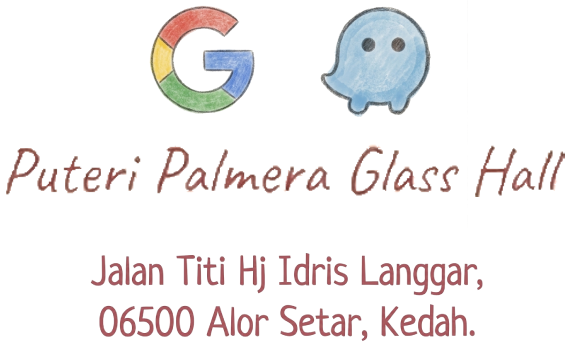
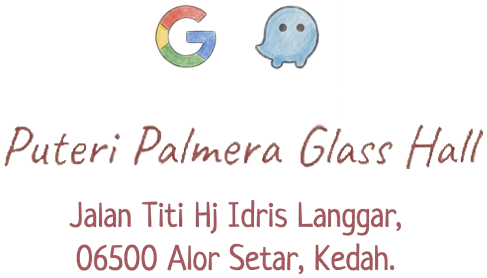
update

diff --git a/app/page.tsx b/app/page.tsx
@@ -287,6 +287,22 @@ const addToCalendar = (type: 'google' | 'apple') => {
     document.body.removeChild(link);
   }
 };
+const navRef = useRef<HTMLDivElement>(null);
+
+useEffect(() => {
+  if (navRef.current) {
+    // Cari button yang aktif berdasarkan data-tab attribute
+    const activeElement = navRef.current.querySelector(`[data-tab="${activeTab}"]`);
+    
+    if (activeElement) {
+      activeElement.scrollIntoView({
+        behavior: 'smooth', // Animasi smooth
+        block: 'nearest',   // Tak perlu gerak vertical
+        inline: 'center',   // Tengah-tengahkan button dalam scrollable area
+      });
+    }
+  }
+}, [activeTab]); // Effect ni akan jalan setiap kali activeTab berubah
     return (
     <div className="min-h-screen bg-[#FCFAF7] text-[#4A443F] font-sans overflow-x-hidden selection:bg-[#E8DED1]">
       
@@ -428,7 +444,7 @@ const addToCalendar = (type: 'google' | 'apple') => {
   <img 
     src="/image/9.png" 
     alt="Main Invite"
-    className="w-full h-auto object-contain scale-80" 
+    className="w-full h-auto object-contain scale-75" 
   />
 </motion.div>
 
@@ -441,7 +457,7 @@ const addToCalendar = (type: 'google' | 'apple') => {
   <img 
     src="/image/10.png" 
     alt="Main Invite"
-    className="w-full h-auto object-contain scale-60" 
+    className="w-full h-auto object-contain scale-55" 
   />
 </motion.div>
 <motion.img 
@@ -496,7 +512,7 @@ const addToCalendar = (type: 'google' | 'apple') => {
   initial={{ scale: 0.8, opacity: 0 }}
   animate={{ scale: 1, opacity: 1 }}
   transition={{ duration: 1 }}
-  className="relative z-10 w-full mt-[-50px]" // <--- TUKAR NILAI NI (Lagi besar nilai, lagi tinggi dia naik)
+  className="relative z-10 w-full mt-[-50px] ml-5" // <--- TUKAR NILAI NI (Lagi besar nilai, lagi tinggi dia naik)
 >
   <img 
     src="/image/54.png" 
@@ -518,17 +534,17 @@ const addToCalendar = (type: 'google' | 'apple') => {
          <motion.img 
   animate={{ scale: [1, 1.2, 1] }} 
   transition={{ repeat: Infinity, duration: 3 }} // Tambah ni supaya dia sentiasa berdenyut
-          src="/image/4.png" className="absolute bottom-[10%] left-[55%] w-28 z-20 w-20"
+          src="/image/4.png" className="absolute bottom-[15%] left-[60%] w-28 z-20 w-[90px]"
         />
          <motion.img 
   animate={{ scale: [1, 1.2, 1] }} 
   transition={{ repeat: Infinity, duration: 3 }} // Tambah ni supaya dia sentiasa berdenyut
-          src="/image/7.png" className="absolute bottom-[15%] left-[15%] w-28 z-20 w-30"
+          src="/image/7.png" className="absolute bottom-[15%] left-[15%] w-28 z-20 w-[90px]"
         />
         <motion.img 
   animate={{ scale: [1, 1.2, 1] }} 
   transition={{ repeat: Infinity, duration: 3 }} // Tambah ni supaya dia sentiasa berdenyut
-          src="/image/16.png" className="absolute bottom-[80%] left-[40%] w-28 z-20 w-30"
+          src="/image/16.png" className="absolute bottom-[85%] left-[40%] w-28 z-20 w-30"
         />
         {/* <motion.img 
           src="/image/17.png" className="absolute bottom-[17%] left-[30%] w-28 z-20 w-60"
@@ -569,19 +585,19 @@ const addToCalendar = (type: 'google' | 'apple') => {
     className="w-full h-auto object-contain scale-130" 
   /> */}
     <img 
-    src="/image/61.png" 
+    src="/image/53.png" 
     alt="Main Invite"
     className="w-full h-auto object-contain scale-130" 
-  />
+  /> 
   <motion.img 
   animate={{ scale: [1, 1.2, 1] }} 
   transition={{ repeat: Infinity, duration: 3 }} // Tambah ni supaya dia sentiasa berdenyut
-          src="/image/16.png" className="absolute bottom-[70%] left-[40%] w-28 z-20 w-[100px]"
+          src="/image/16.png" className="absolute bottom-[110%] left-[40%] w-28 z-20 w-[100px]"
         />
           <motion.img 
   animate={{ scale: [1, 1.2, 1] }} 
   transition={{ repeat: Infinity, duration: 3 }} // Tambah ni supaya dia sentiasa berdenyut
-          src="/image/3.png" className="absolute bottom-[65%] left-[10%] w-28 z-20 w-[100px]"
+          src="/image/3.png" className="absolute bottom-[95%] left-[10%] w-28 z-20 w-[100px]"
         />
          {/* <motion.img 
   animate={{ scale: [1, 1.2, 1] }} 
@@ -591,7 +607,7 @@ const addToCalendar = (type: 'google' | 'apple') => {
         <motion.img 
   animate={{ scale: [1, 1.2, 1] }} 
   transition={{ repeat: Infinity, duration: 3 }} // Tambah ni supaya dia sentiasa berdenyut
-          src="/image/6.png" className="absolute bottom-[60%] left-[70%] w-28 z-20 w-[100px]"
+          src="/image/6.png" className="absolute bottom-[60%] left-[75%] w-28 z-20 w-[100px]"
         />
         {/* <motion.img 
           src="/image/48.png" className="absolute bottom-[65%] left-[60%] w-28 z-20 w-[200px]"
@@ -617,12 +633,12 @@ const addToCalendar = (type: 'google' | 'apple') => {
   initial={{ scale: 0.8, opacity: 0 }}
   animate={{ scale: 1, opacity: 1 }}
   transition={{ duration: 1 }}
-  className="relative z-10 w-full mt-[-100px]" // <--- TUKAR NILAI NI (Lagi besar nilai, lagi tinggi dia naik)
+  className="relative z-10 w-full mt-[-80px]" // <--- TUKAR NILAI NI (Lagi besar nilai, lagi tinggi dia naik)
 >
   <img 
     src="/image/55.png" 
     alt="Main Invite"
-    className="w-full h-auto object-contain scale-90" 
+    className="w-full h-auto object-contain scale-80" 
         onClick={() => setShowCalendarModal(true)}
 
   />
@@ -631,7 +647,7 @@ const addToCalendar = (type: 'google' | 'apple') => {
   initial={{ scale: 0.8, opacity: 0 }}
   animate={{ scale: 1, opacity: 1 }}
   transition={{ duration: 1 }}
-  className="relative z-10 w-full mt-[-10px]"
+  className="relative z-10 w-full mt-[-85px]"
 >
   <img 
     src="/image/56.png" 
@@ -694,12 +710,12 @@ const addToCalendar = (type: 'google' | 'apple') => {
          <motion.img 
   animate={{ scale: [1, 1.2, 1] }} 
   transition={{ repeat: Infinity, duration: 3 }} // Tambah ni supaya dia sentiasa berdenyut
-          src="/image/38.png" className="absolute bottom-[70%] left-[80%] w-28 z-20 w-[100px]"
+          src="/image/38.png" className="absolute bottom-[70%] left-[75%] w-28 z-20 w-[100px]"
         />
          <motion.img 
   animate={{ scale: [1, 1.2, 1] }} 
   transition={{ repeat: Infinity, duration: 3 }} // Tambah ni supaya dia sentiasa berdenyut
-          src="/image/7.png" className="absolute bottom-[15%] left-[10%] w-28 z-20 w-[100px]"
+          src="/image/7.png" className="absolute bottom-[15%] left-[5%] w-28 z-20 w-[90px]"
         />
                  {/* <motion.img 
   animate={{ scale: [1, 1.2, 1] }} 
@@ -1096,7 +1112,7 @@ const addToCalendar = (type: 'google' | 'apple') => {
   initial={{ scale: 0.8, opacity: 0 }}
   animate={{ scale: 1, opacity: 1 }}
   transition={{ duration: 1 }}
-  className="flex justify-center z-10 w-full mt-[-100px] ml-1" // <--- TUKAR NILAI NI (Lagi besar nilai, lagi tinggi dia naik)
+  className="flex justify-center z-10 w-full mt-[-55px] ml-1" // <--- TUKAR NILAI NI (Lagi besar nilai, lagi tinggi dia naik)
 >
   <img 
     src="/image/59.png" 
@@ -1142,12 +1158,12 @@ const addToCalendar = (type: 'google' | 'apple') => {
         <motion.img 
           animate={{ scale: [1, 1.2, 1] }} 
   transition={{ repeat: Infinity, duration: 3 }} // Tambah ni supaya dia sentiasa berdenyut
-          src="/image/3.png" className="absolute  bottom-[35%] left-[85%] w-28 z-20 w-[90px]"
+          src="/image/3.png" className="absolute  bottom-[30%] left-[85%] w-28 z-20 w-[90px]"
         />
         <motion.img 
           animate={{ scale: [1, 1.2, 1] }} 
   transition={{ repeat: Infinity, duration: 3 }} // Tambah ni supaya dia sentiasa berdenyut
-          src="/image/6.png" className="absolute bottom-[25%] left-[30%] w-28 z-20 w-[100px]"
+          src="/image/6.png" className="absolute bottom-[20%] left-[30%] w-28 z-20 w-[100px]"
         />
         <motion.img 
           animate={{ scale: [1, 1.2, 1] }} 
@@ -1157,7 +1173,7 @@ const addToCalendar = (type: 'google' | 'apple') => {
         <motion.img 
           animate={{ scale: [1, 1.2, 1] }} 
   transition={{ repeat: Infinity, duration: 3 }} // Tambah ni supaya dia sentiasa berdenyut
-          src="/image/12.png" className="absolute bottom-[50%] left-[1%] w-28 z-20 w-[70px]"
+          src="/image/12.png" className="absolute bottom-[45%] left-[1%] w-28 z-20 w-[70px]"
         />
          {/* <motion.img 
           animate={{ scale: [1, 1.2, 1] }} 
@@ -1338,7 +1354,7 @@ layoutId={`card-${item.id}`} // Unique layoutId
         {/* --- GLOBAL NAVIGATION --- */}
 {!isCoverOpen&& !isOpen && !selectedWish&& !isOpen1&&!selectedItem&&!showCalendarModal&& (
   <>
-       <nav className="fixed bottom-15 left-1/2 -translate-x-1/2 flex items-center p-1.5 bg-white/40 backdrop-blur-2xl border border-white/60 rounded-full shadow-[0_20px_50px_rgba(214,199,181,0.2)] z-[200] pointer-events-auto max-w-[90vw] overflow-x-auto scrollbar-hide">
+       <nav ref={navRef} className="fixed bottom-5 left-1/2 -translate-x-1/2 flex items-center p-1.5 bg-white/40 backdrop-blur-2xl border border-white/60 rounded-full shadow-[0_20px_50px_rgba(214,199,181,0.2)] z-[200] pointer-events-auto max-w-[90vw] overflow-x-auto scrollbar-hide">
 <button
   onClick={handleRestart}
   className="
@@ -1365,6 +1381,7 @@ layoutId={`card-${item.id}`} // Unique layoutId
     ].map((tab) => (
       <button
         key={tab.id}
+        data-tab={tab.id} // Tambah attribute ni untuk querySelector
         onClick={() => scrollToSection(tab.id as any)}
         className={`
           px-4 py-2.5 rounded-full 
